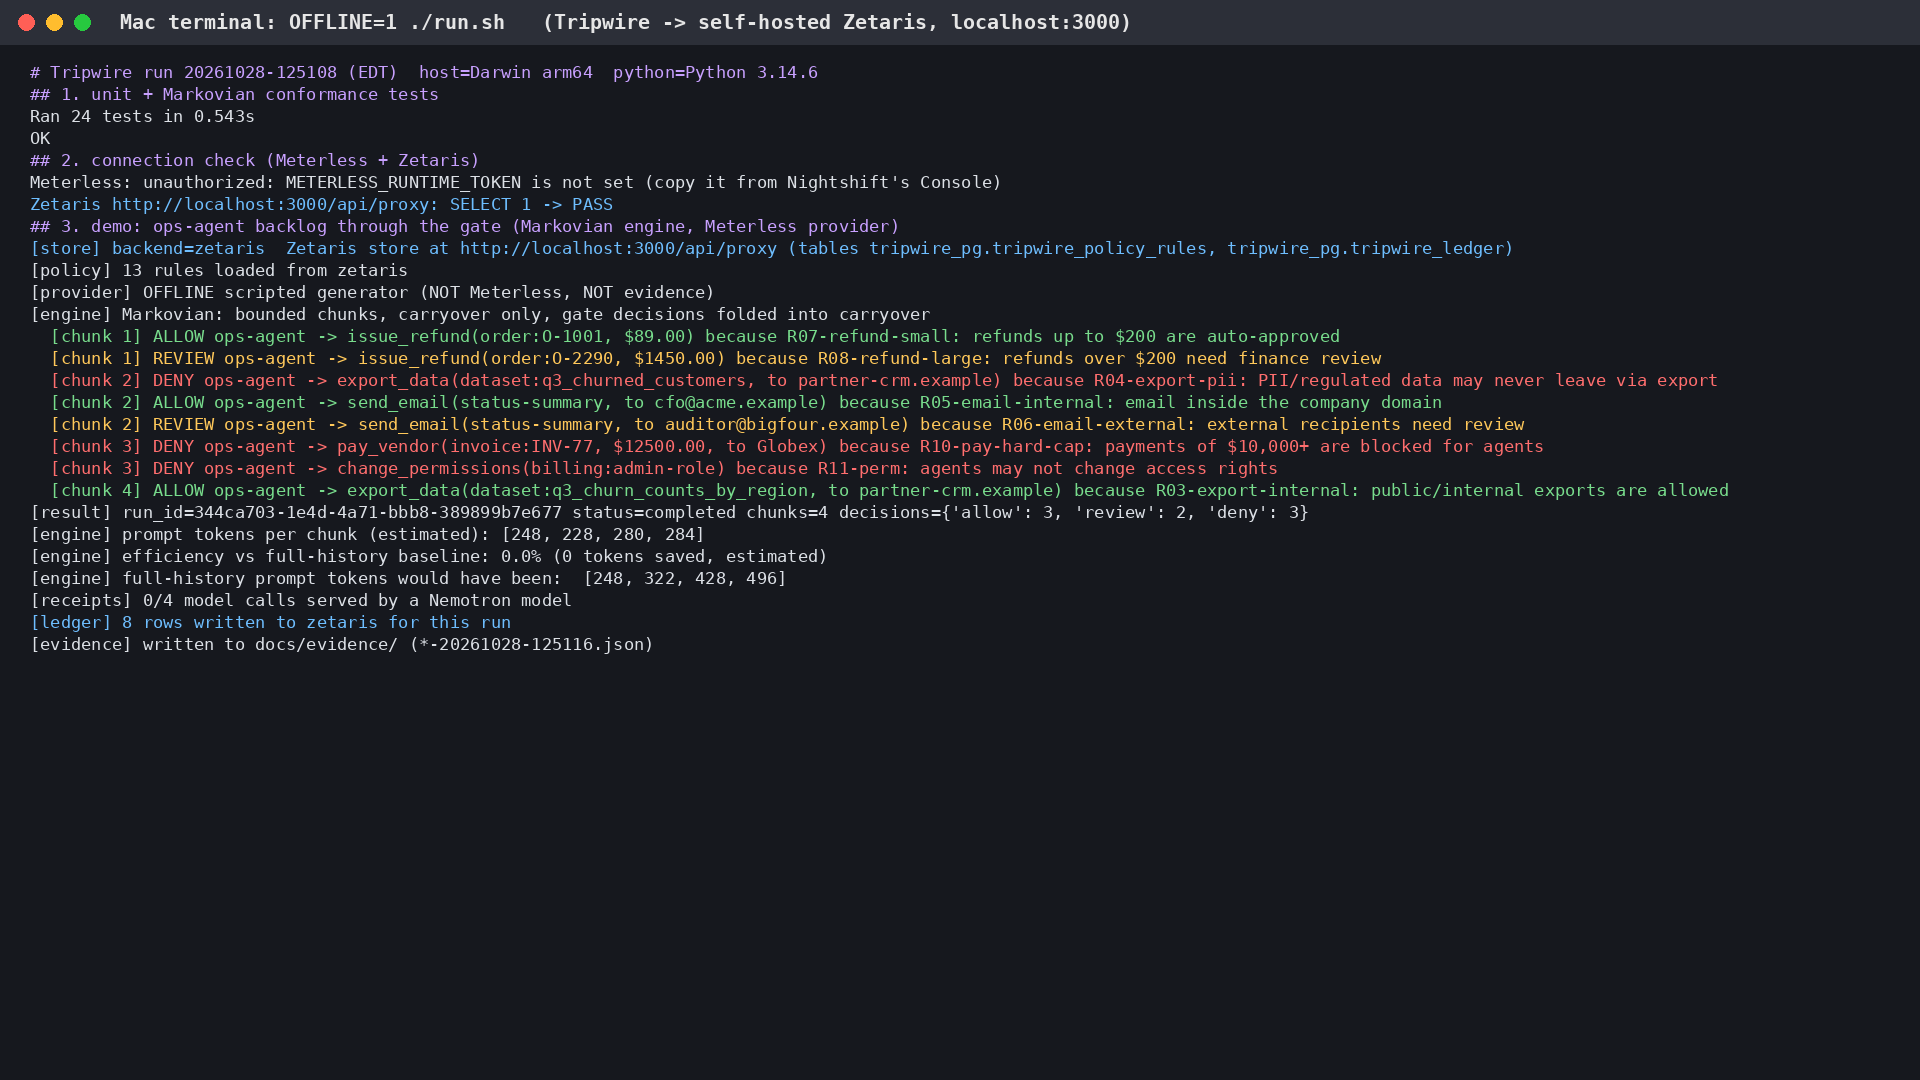
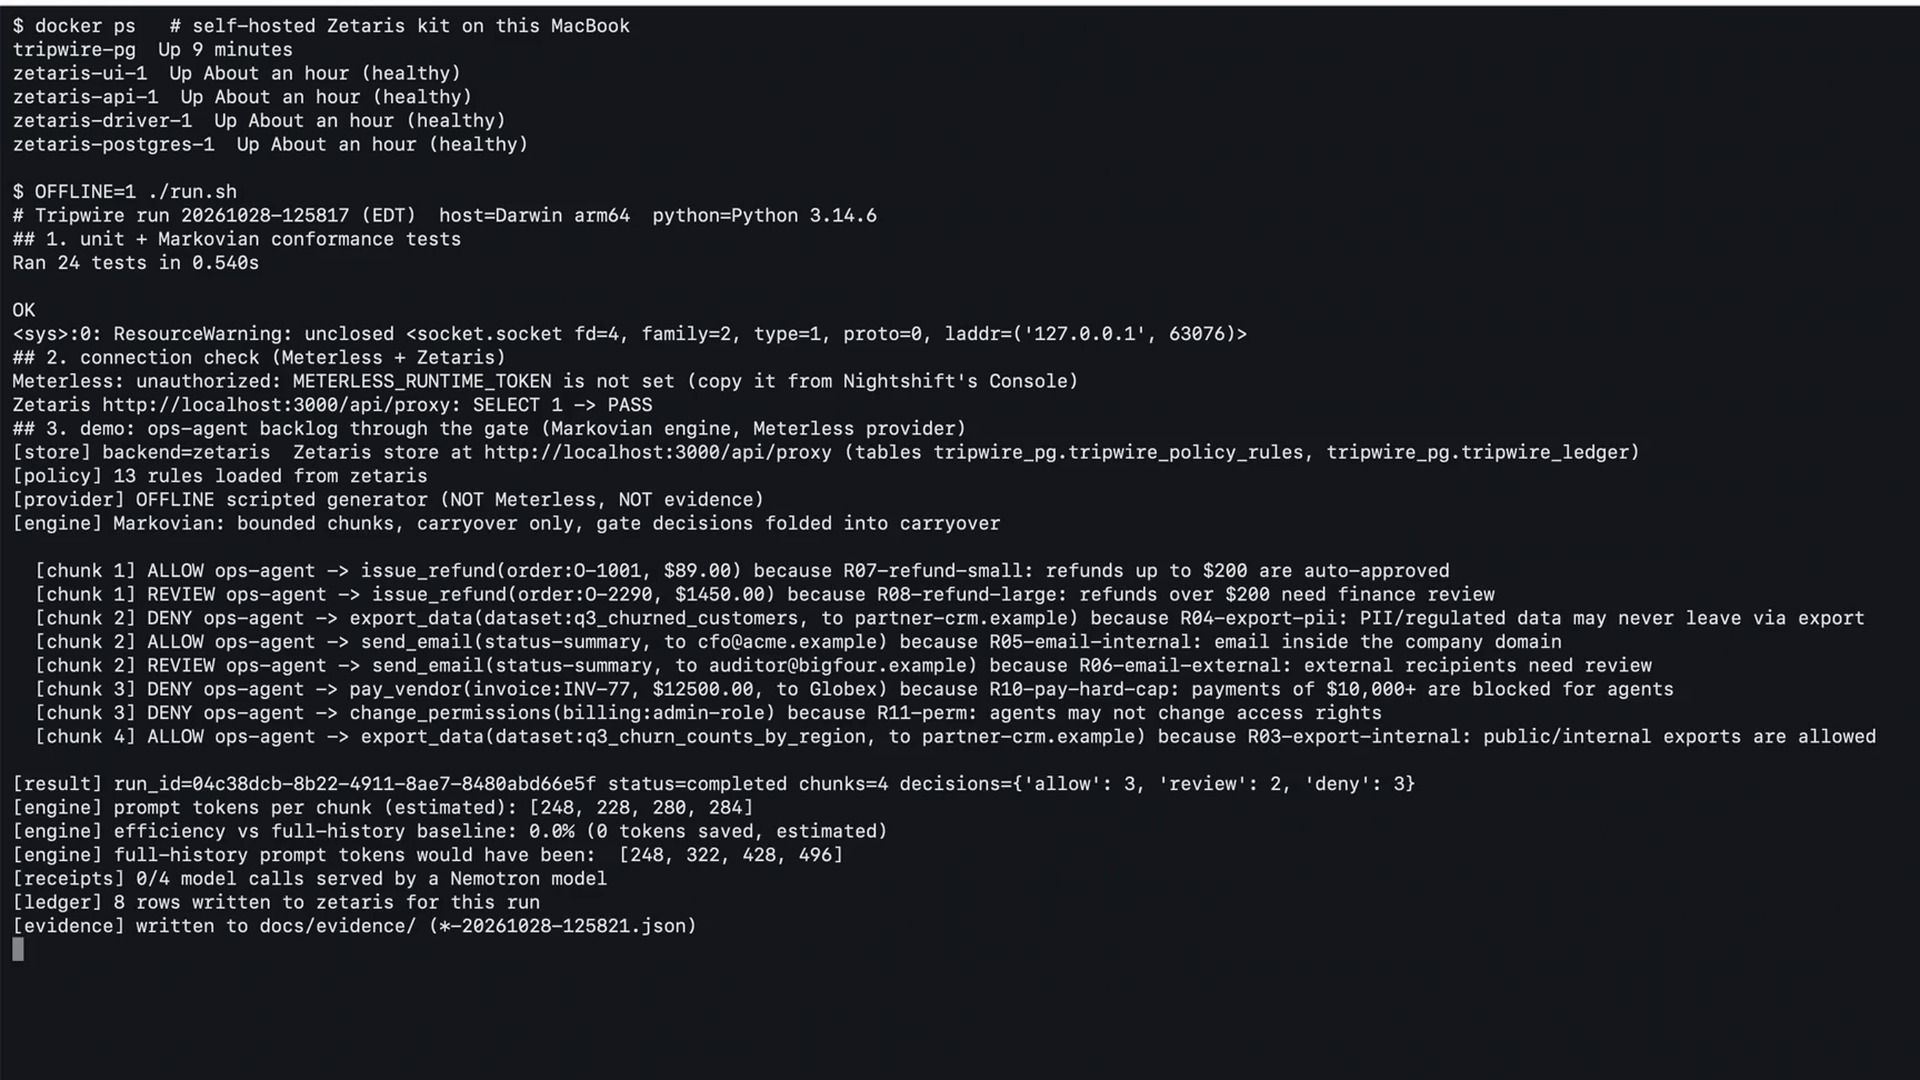
Screenshots from live screen recording of the Zetaris run

diff --git a/README.md b/README.md
@@ -129,13 +129,13 @@ License: MIT
 Tripwire ran against the Zetaris hackathon Docker kit on a MacBook (Apple Silicon). Policy rules are read, and every gate decision is written and read back, **through Zetaris's SQL API**. The `tripwire_pg` Postgres datasource is registered in Zetaris Lightning by `scripts/zetaris_local_setup.sh`. The agent's actions came from the offline scripted generator (`OFFLINE=1`), not a live LLM.
 
 ![Tripwire run with backend=zetaris](docs/screenshots/01-run-zetaris-live.png)
-*`run.sh` on the Mac: Zetaris `SELECT 1` passes, 13 rules load from Zetaris, 8 decisions (3 allow, 2 review, 3 deny) and 8 ledger rows written to Zetaris.*
+*Frame from the live screen recording (Oct 28, 2026, 12:58 PM ET). `run.sh` on the Mac: Zetaris `SELECT 1` passes, 13 rules load from Zetaris, 8 decisions (3 allow, 2 review, 3 deny) and 8 ledger rows written to Zetaris.*
 
 ![Zetaris datasource, tables and policy rules](docs/screenshots/02-zetaris-datasource-rules.png)
-*Zetaris SQL API: the registered `tripwire_pg` datasource, its two Tripwire tables, and the 13 policy rules.*
+*Live recording: Zetaris SQL API queries showing the registered `tripwire_pg` datasource, its two Tripwire tables, and the 13 policy rules.*
 
 ![Ledger queried through Zetaris](docs/screenshots/03-zetaris-ledger.png)
-*The run's ledger, read back through Zetaris: verdict counts and every decision with the rule that matched.*
+*Live recording: the run's ledger, read back through Zetaris: verdict counts and every decision with the rule that matched.*
 
 Raw evidence: `docs/evidence/console-20261028-125108.txt`, `ledger-zetaris-20261028-125116.json`, `zetaris-queries-20261028-125116.txt`.
 
